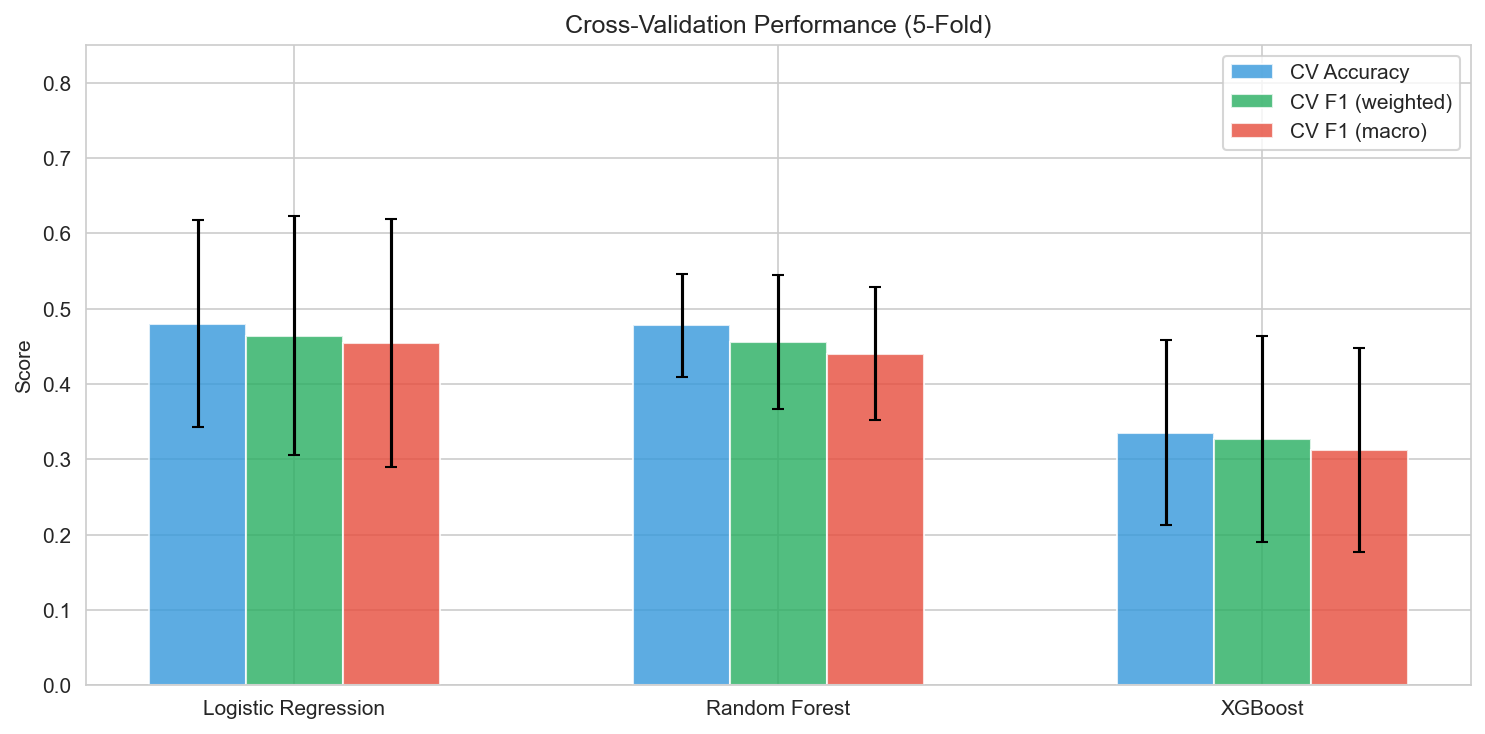
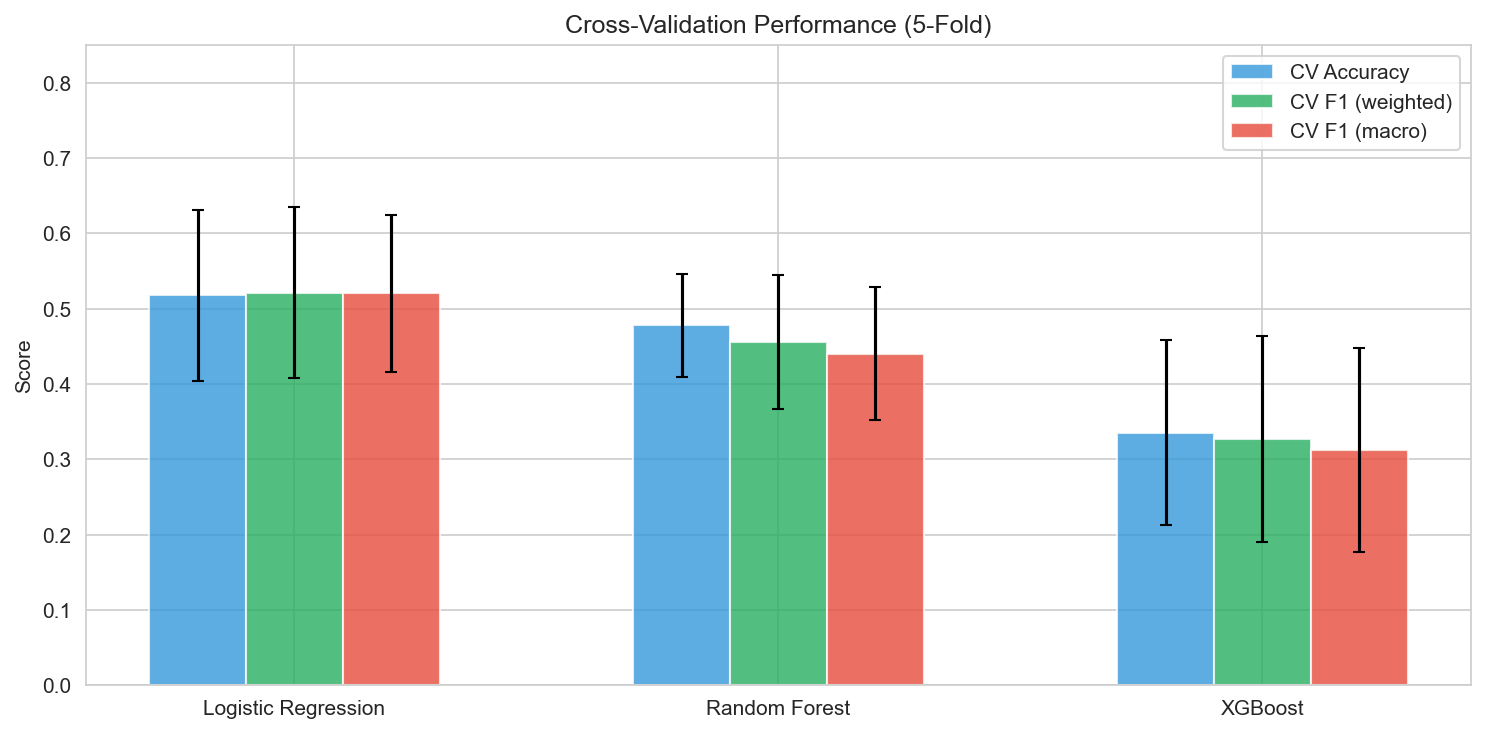
Update reports, contributions, and modeling docs

Changed region(s): [[0.0929, 0.3896, 0.3098, 0.4796]]

diff --git a/4_Modeling/run_pipeline.py b/4_Modeling/run_pipeline.py
@@ -9,7 +9,7 @@ matplotlib.use('Agg')
 import matplotlib.pyplot as plt
 import seaborn as sns
 from sklearn.model_selection import train_test_split, StratifiedKFold, cross_validate
-from sklearn.preprocessing import StandardScaler, LabelEncoder
+from sklearn.preprocessing import RobustScaler, LabelEncoder
 from sklearn.linear_model import LogisticRegression
 from sklearn.ensemble import RandomForestClassifier
 from sklearn.metrics import (accuracy_score, precision_score, recall_score, f1_score,
@@ -150,7 +150,7 @@ train_idx, temp_idx, y_train, y_temp = train_test_split(indices, y, test_size=0.
 val_idx, test_idx, y_val, y_test = train_test_split(temp_idx, y_temp, test_size=0.50, random_state=42, stratify=y_temp)
 
 X_train, X_val, X_test = X[train_idx], X[val_idx], X[test_idx]
-scaler = StandardScaler()
+scaler = RobustScaler()
 X_train_sc = scaler.fit_transform(X_train)
 X_val_sc = scaler.transform(X_val)
 X_test_sc = scaler.transform(X_test)

diff --git a/4_Modeling/build_modeling_notebook.py b/4_Modeling/build_modeling_notebook.py
@@ -40,7 +40,7 @@ import numpy as np
 import matplotlib.pyplot as plt
 import seaborn as sns
 from sklearn.model_selection import train_test_split, StratifiedKFold, GridSearchCV, cross_validate
-from sklearn.preprocessing import StandardScaler, LabelEncoder
+from sklearn.preprocessing import RobustScaler, LabelEncoder
 from sklearn.linear_model import LogisticRegression
 from sklearn.ensemble import RandomForestClassifier
 from sklearn.metrics import (accuracy_score, precision_score, recall_score, f1_score,
@@ -302,7 +302,7 @@ print(f"Test classes:  {dict(zip(*np.unique(y_test, return_counts=True)))}")
 print(f"Features: {X_train.shape[1]}")
 
 # Scale for Logistic Regression
-scaler = StandardScaler()
+scaler = RobustScaler()
 X_train_sc = scaler.fit_transform(X_train)
 X_val_sc = scaler.transform(X_val)
 X_test_sc = scaler.transform(X_test)"""))

diff --git a/CONTRIBUTIONS.md b/CONTRIBUTIONS.md
@@ -1,0 +1,54 @@
+# Contributions
+
+This document records the contributions of the team members credited in this submission.
+
+## Contribution Summary
+
+| Member | Matricule | Role | Main Contribution Areas |
+|---|---|---|---|
+| GHISLAIN CHE NGWATEH | ICTU20241769 | Group Lead and Primary Contributor | Project coordination, full data cleaning, EDA leadership, modeling leadership, report integration, final validation |
+| TCHOUTO WANDJA ROSTANT | ICTU20233971 | Reporting and Presentation Lead | Interpretation write-up, report generation, PowerPoint preparation, final narrative polishing |
+| NDAH RODIA ZONWUH | ICTU20234002 | EDA Contributor | Exploratory analysis support, chart interpretation, pattern identification, documentation of key insights |
+| NGEMINANG PRECIOUS | Matricule not visible in the shared member list | Modeling Contributor | Modeling support, performance comparison review, class prediction analysis, result interpretation support |
+
+## Detailed Breakdown
+
+### GHISLAIN CHE NGWATEH — ICTU20241769
+
+Group lead and primary contributor.
+
+- Led the planning and overall structure of the project deliverables.
+- Completed the data cleaning phase independently, including parsing, standardization, validation, and output generation.
+- Drove the exploratory data analysis work, selected the most relevant plots, and ensured the EDA narrative aligned with the assessment requirements.
+- Led the modeling work, including preprocessing decisions, split strategy, model comparison, evaluation, and interpretation of results.
+- Reviewed and integrated the final outputs across reports, notebooks, results folders, and presentation materials.
+- Ensured consistency between the written reports, notebooks, model outputs, and final project structure.
+
+### TCHOUTO WANDJA ROSTANT — ICTU20233971
+
+Reporting and presentation lead.
+
+- Generated the interpretation materials that explain the model outcomes and project conclusions.
+- Prepared and refined the project reports for clarity, flow, and submission readiness.
+- Built the PowerPoint presentation and organized the results into a clear presentation format.
+- Helped convert technical findings into a concise narrative suitable for stakeholders and viva discussion.
+
+### NDAH RODIA ZONWUH — ICTU20234002
+
+EDA contributor.
+
+- Contributed to exploratory data analysis and the interpretation of transaction patterns.
+- Helped review and describe the main charts, including distributions, time patterns, correlations, and grouped comparisons.
+- Supported the identification of meaningful EDA insights that connect the data to the classification task.
+
+### NGEMINANG PRECIOUS
+
+Modeling contributor.
+
+- Contributed to the modeling phase and supported the user classification work.
+- Assisted with reviewing model outputs, comparisons, and class-level performance.
+- Supported interpretation of the modeling results and the assessment of feature usefulness.
+
+## Contribution Priority
+
+The project lead, GHISLAIN CHE NGWATEH, is recorded as the highest contributor because he completed the data cleaning phase alone and led the remaining major phases, including EDA and modeling, in addition to project coordination and final integration.

diff --git a/README.md b/README.md
@@ -1,1 +1,51 @@
-# Datascience_Project_V2-ETA-Alpha-
+# Data Science Final Project: Mobile Money Transaction Analysis and User Classification
+
+## Group Members
+
+- GHISLAIN CHE NGWATEH — ICTU20241769 — Group Lead
+- TCHOUTO WANDJA ROSTANT — ICTU20233971
+- NDAH RODIA ZONWUH — ICTU20234002
+- NGEMINANG PRECIOUS — Matricule not visible in the shared member list
+
+## Project Title
+
+Mobile Money Transaction Analysis and User Classification
+
+## Brief Description
+
+This project analyzes mobile money SMS transaction data, cleans and structures the raw records, performs exploratory data analysis, and builds classification models to predict user activity level as Low, Medium, or High. The project combines behavioral transaction features and demographic information to understand user patterns and evaluate predictive performance.
+
+## File Structure Explanation
+
+- 2_Data_Cleaning/ — raw-to-cleaned data pipeline, cleaned datasets, and cleaning report
+- 3_EDA/ — exploratory analysis notebook, EDA report, visualization folder, and explanation guide
+- 4_Modeling/ — modeling notebook, pipeline script, saved model, comparison metrics, and results
+- 5_Interpretation/ — interpretation notes and report summarizing findings and business meaning
+- 5_Report/ — consolidated final report and appendices
+- 6_Presentation/ — PowerPoint generation script and presentation slides
+- Data/ — original raw files, extracted datasets, cleaned datasets, and model-ready outputs
+- requirements.txt — Python dependencies required to reproduce the project
+
+## How to Run the Code
+
+1. Create and activate a Python virtual environment.
+	python -m venv .venv
+	.venv\Scripts\Activate.ps1
+
+2. Install the project dependencies.
+	pip install -r requirements.txt
+
+3. Run the data cleaning pipeline.
+	python 2_Data_Cleaning\data_pipeline.py
+
+4. Run the modeling pipeline.
+	python 4_Modeling\run_pipeline.py
+
+5. Build the presentation slides.
+	python 6_Presentation\build_presentation.py
+
+6. Open the notebooks in VS Code or Jupyter if you want to inspect the analysis interactively.
+
+## Dependencies / Requirements
+
+The project uses pandas, numpy, matplotlib, seaborn, scikit-learn, xgboost, nbformat, python-pptx, openpyxl, notebook, ipykernel, joblib, and scipy. The complete list is recorded in requirements.txt.

diff --git a/4_Modeling/section4_modeling_report.md b/4_Modeling/section4_modeling_report.md
@@ -74,7 +74,7 @@ Only 10/69 users had questionnaire data. To enable modeling, demographics were p
 ### Model 1: Logistic Regression
 
 - **Configuration:** C=1, solver=lbfgs, class_weight=balanced, max_iter=1000
-- **Scaling:** StandardScaler applied
+- **Scaling:** RobustScaler applied
 - **Strengths:** Interpretable coefficients per class
 
 ### Model 2: Random Forest
